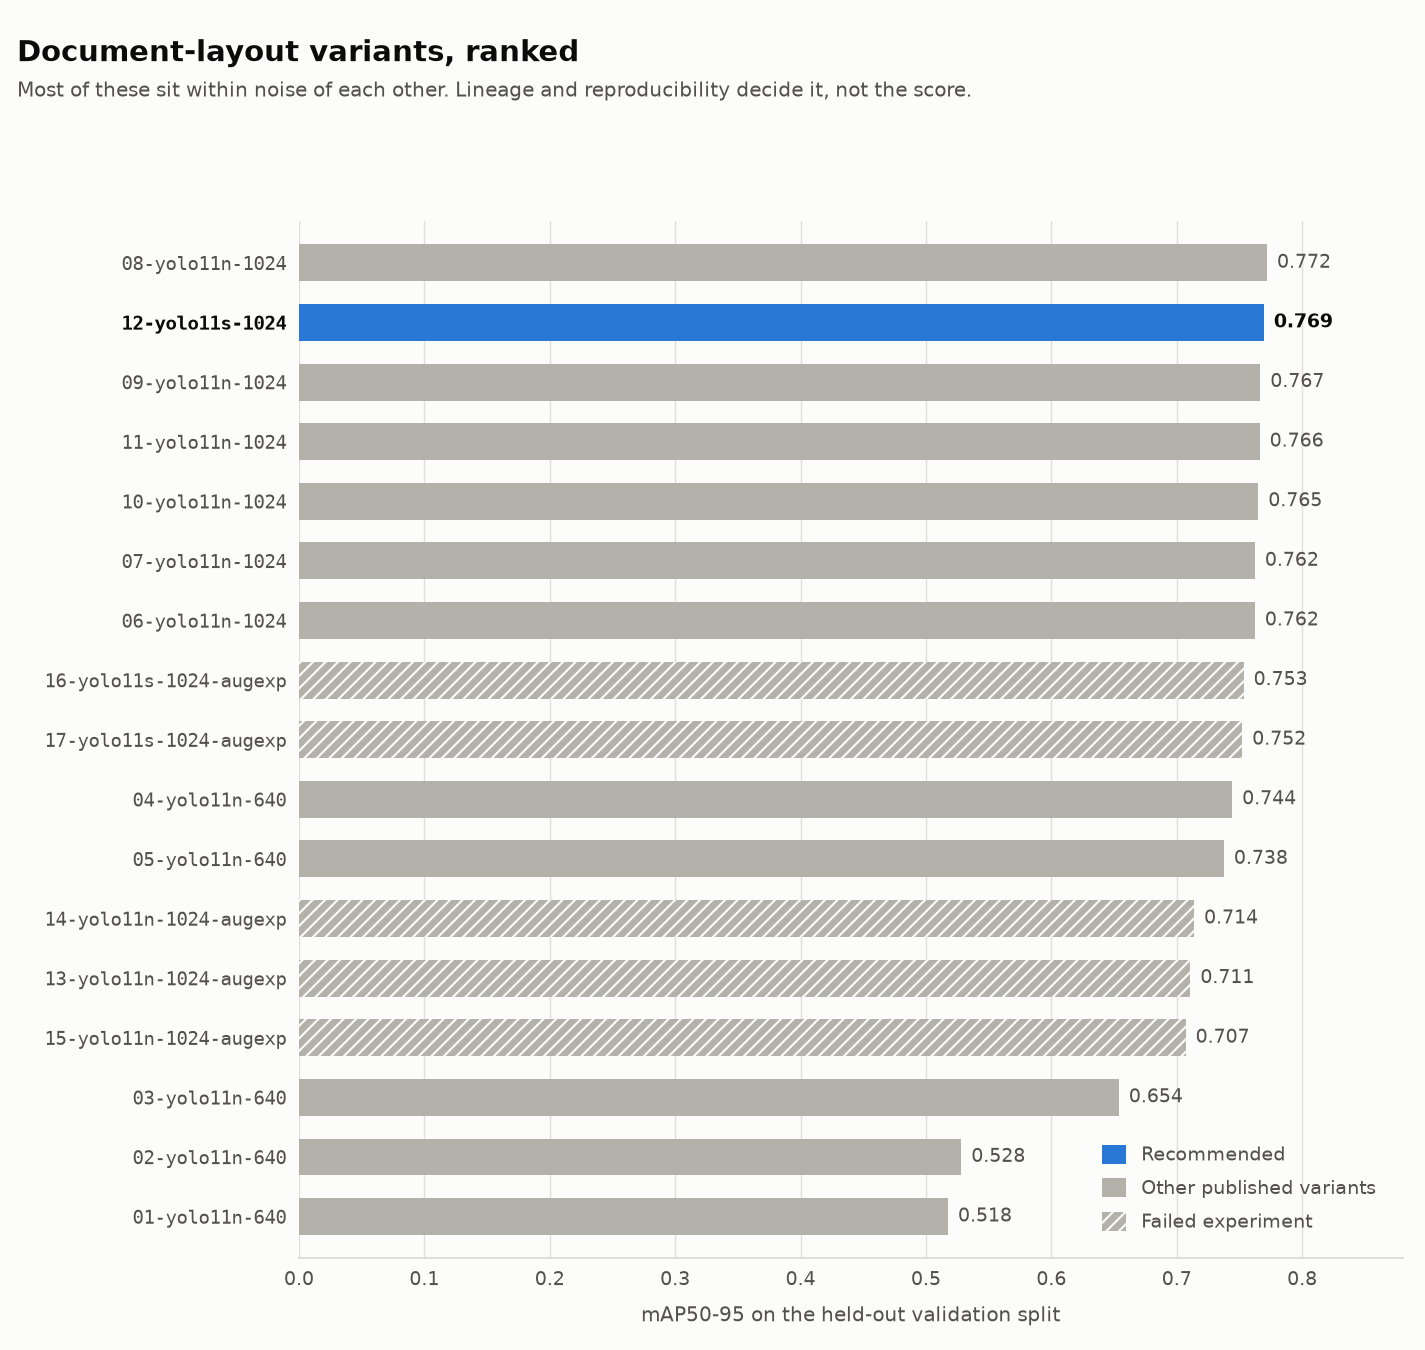
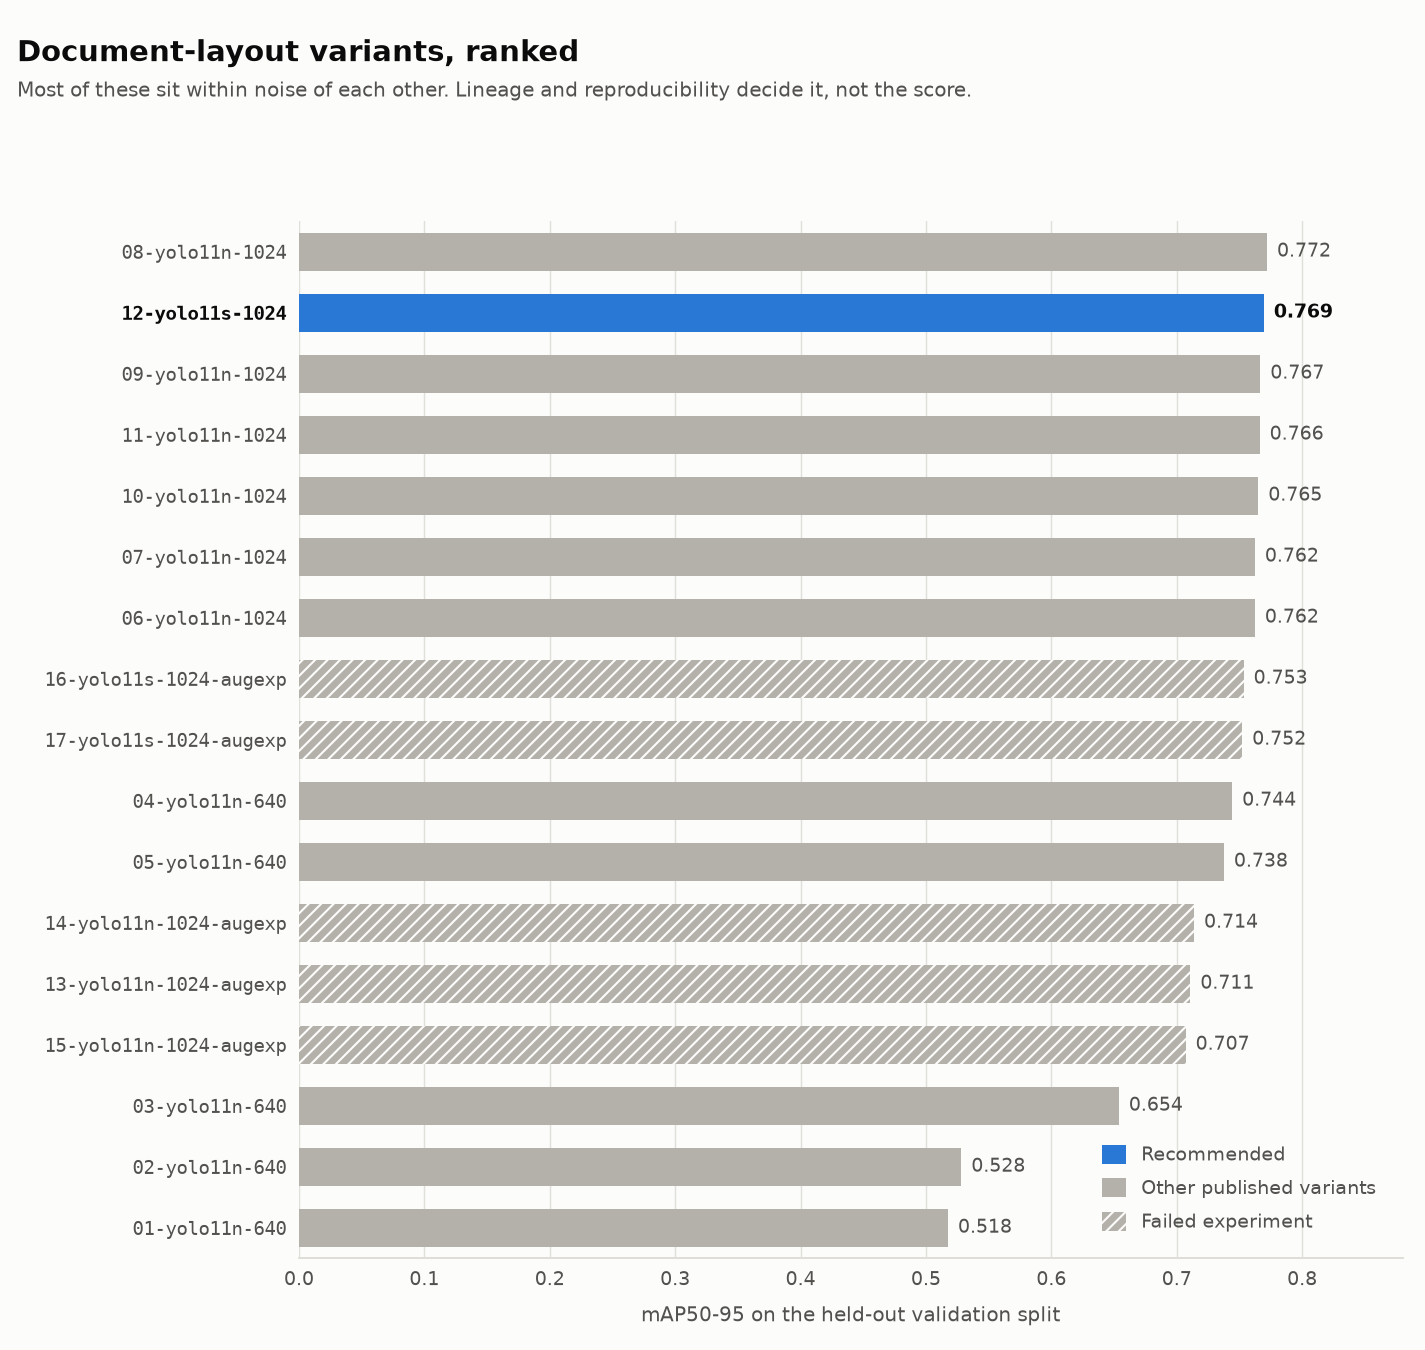
Fix per-class chart collision, halve comparison.png padding, link X-AnyLabeling
per-class.png had a real bug: a second, argument-less tight_layout() call
immediately after the title-aware one. It silently discarded the top margin
_titles() had computed, which is why the chart's spacing was inconsistent with
the other three and why the "overall 0.769" reference line ran straight through
the Caption row's "0.762" value label -- the two are 0.007 apart and the label
offset (score + 0.008) put the digits almost exactly on the line.

Fixed by removing the duplicate call, giving value-label text a higher zorder
than the reference line, and adding a white halo (path_effects.withStroke) to
every value label so a crossing line or gridline can never fuse with a number
again, regardless of how close the values happen to land. Also dropped an
unused FancyBboxPatch import left over from an earlier rounded-bar attempt that
was never removed.

comparison.png's vertical padding above the first bar and below the last was
0.39 data-units each side (bar height 0.62 against a 0.7 ylim margin), which
read as dead space bracketing an otherwise tightly packed chart. Halved to
about 0.19 each side.

X-AnyLabeling was linked in some places and not others: the HF card's own
Training Data section -- the first and most-read mention on the published
page -- had no link at all, and docs/LICENSING.md's dedicated section about the
tool discussed it at length without ever linking to it once. Both now link to
https://github.com/CVHub520/X-AnyLabeling on first mention.
[…]

diff --git a/doclayout_ft/hub/charts.py b/doclayout_ft/hub/charts.py
@@ -40,7 +40,7 @@ from pathlib import Path
 import matplotlib
 matplotlib.use("Agg")  # No display on a training box.
 import matplotlib.pyplot as plt
-from matplotlib.patches import FancyBboxPatch
+import matplotlib.patheffects as path_effects
 
 from doclayout_ft.config import REPORTS_DIR
 
@@ -221,7 +221,11 @@ def build_comparison_chart(path: Path, split: str = "val") -> Path:
         if row["recommended"]:
             label.set_fontweight("bold")
 
-    axes.set_ylim(-0.7, len(rows) - 0.3)
+    # Padding above the first bar and below the last was 0.39 data-units on
+    # each side (bar height 0.62, ylim margin 0.7), which read as dead space
+    # at the top and bottom of a chart that is otherwise tightly packed.
+    # Halved to ~0.19 each side.
+    axes.set_ylim(-0.5, len(rows) - 0.5)
     axes.set_xlim(0, max(r["score"] for r in rows) * 1.14)
     axes.set_xlabel("mAP50-95 on the held-out validation split",
                     fontsize=9.5, color=TEXT_SECONDARY, labelpad=8)
@@ -292,16 +296,22 @@ def build_per_class_chart(path: Path, csv_path: Path | None = None) -> Path:
 
     # One series, so one colour for every bar. Colouring by value would
     # double-encode length as hue and spend the free channel on nothing.
+    halo = [path_effects.withStroke(linewidth=3, foreground=SURFACE)]
+
     for y, (_, score) in zip(positions, rows):
         axes.barh(y, score, height=0.62, color=ACCENT, linewidth=0, zorder=2)
-        axes.text(score + 0.008, y, f"{score:.3f}", va="center", ha="left",
-                  fontsize=9, color=TEXT_SECONDARY)
+        label = axes.text(score + 0.008, y, f"{score:.3f}", va="center",
+                          ha="left", fontsize=VALUE_SIZE, color=TEXT_SECONDARY,
+                          zorder=6)
+        label.set_path_effects(halo)
 
     if overall is not None:
         axes.axvline(overall, color=TEXT_SECONDARY, linewidth=1.3,
                      linestyle=(0, (4, 3)), zorder=3)
-        axes.text(overall - 0.012, -0.55, f"overall {overall:.3f}", fontsize=9,
-                  color=TEXT_SECONDARY, ha="right", va="center")
+        note = axes.text(overall - 0.012, -0.55, f"overall {overall:.3f}",
+                         fontsize=VALUE_SIZE, color=TEXT_SECONDARY, ha="right",
+                         va="center", zorder=6)
+        note.set_path_effects(halo)
 
     axes.set_yticks(positions)
     axes.set_yticklabels([c for c, _ in rows], fontsize=9.5, color=TEXT_PRIMARY)
@@ -316,7 +326,6 @@ def build_per_class_chart(path: Path, csv_path: Path | None = None) -> Path:
         "which is an annotation problem.")
 
     figure.tight_layout(rect=(0, 0, 1, top))
-    figure.tight_layout()
     path.parent.mkdir(parents=True, exist_ok=True)
     figure.savefig(path, dpi=150, facecolor=SURFACE)
     plt.close(figure)

diff --git a/doclayout_ft/hub/model_card.py b/doclayout_ft/hub/model_card.py
@@ -423,7 +423,8 @@ base taxonomy has no equivalent for.
 ## Training data
 
 Pages rendered from arXiv PDFs at 300 DPI and annotated by hand in
-X-AnyLabeling, exported in YOLO horizontal-bounding-box format.
+[X-AnyLabeling](https://github.com/CVHub520/X-AnyLabeling), exported in YOLO
+horizontal-bounding-box format.
 
 850 pages from 566 papers are annotated and used for training and evaluation.
 They are a labelled subset of a much larger unlabelled pool of roughly 22,000

diff --git a/docs/LICENSING.md b/docs/LICENSING.md
@@ -76,8 +76,8 @@ changing it after other people contribute is not.
 
 ## X-AnyLabeling: no obligation on your annotations
 
-X-AnyLabeling is **GPL-3.0**. That licence covers **the software**, not what you
-produce with it.
+[X-AnyLabeling](https://github.com/CVHub520/X-AnyLabeling) is **GPL-3.0**. That
+licence covers **the software**, not what you produce with it.
 
 GPL has never claimed ownership of a program's output. Using GIMP does not make
 your image GPL; using a GPL compiler does not make your binary GPL. The same
